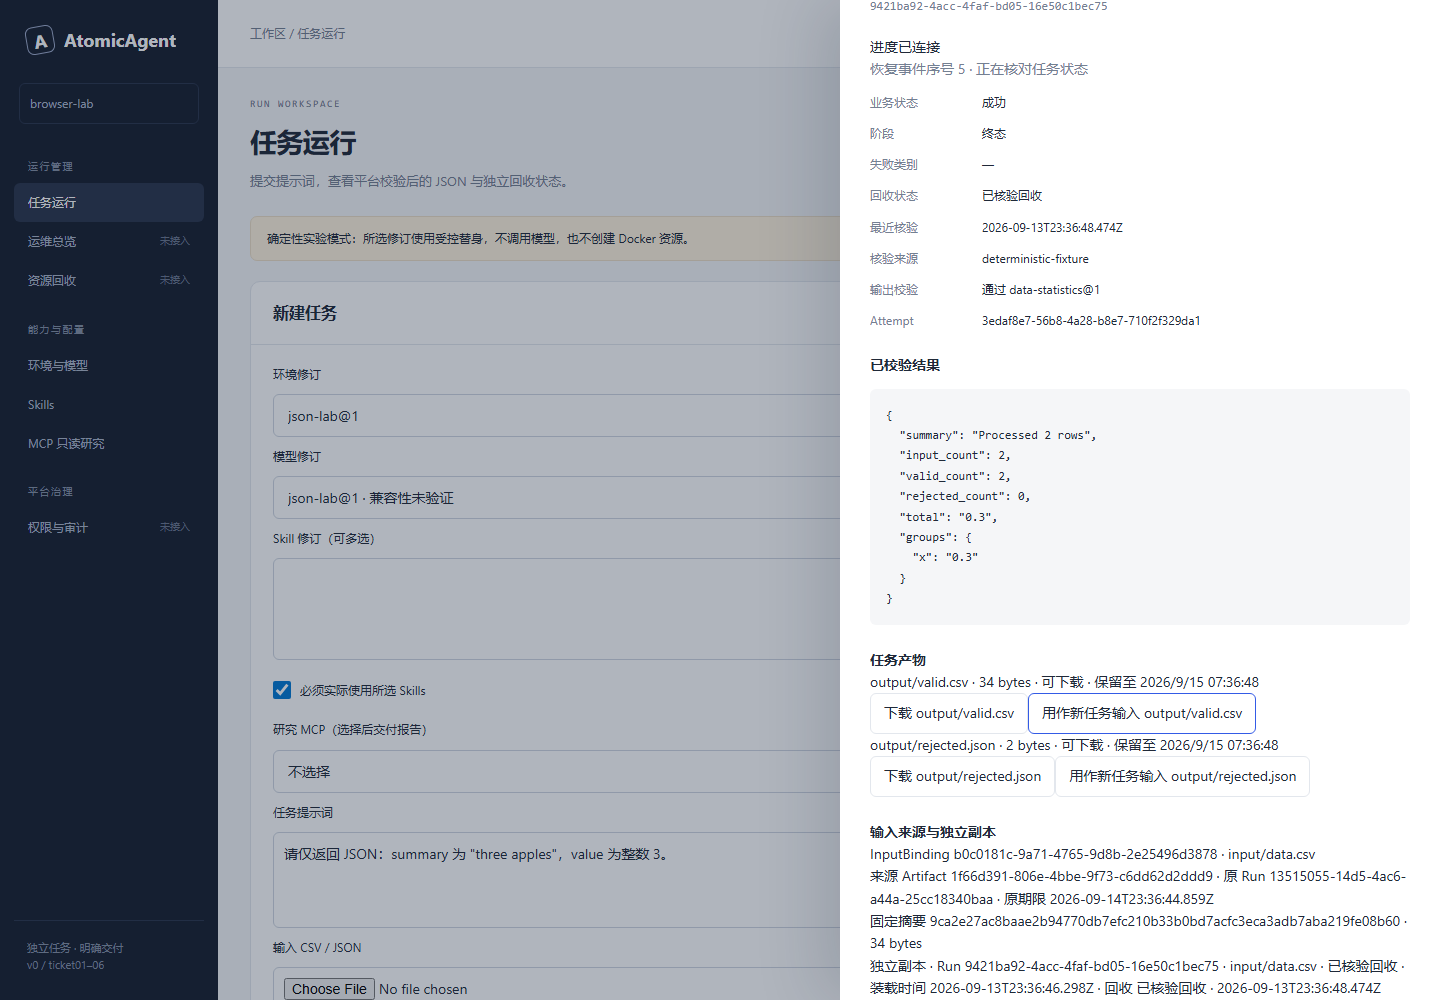
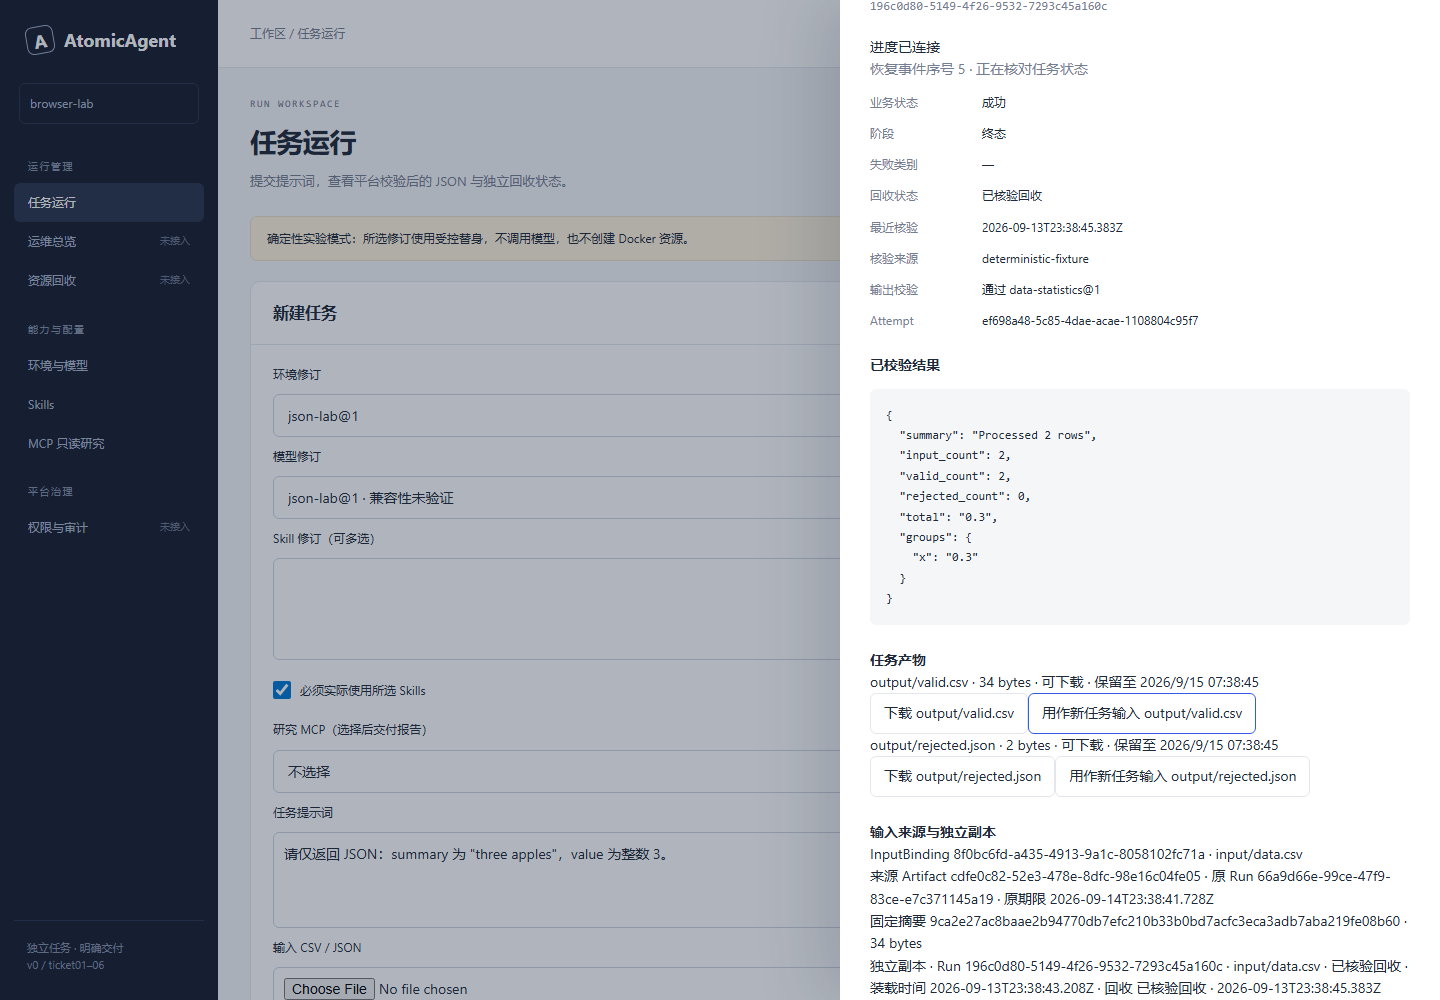
refactor(ticket08): name selected input across upload and reuse

diff --git a/web/app.js b/web/app.js
@@ -3,7 +3,7 @@ import { observeRun } from './events.js';
 const $ = id => document.getElementById(id);
 const statusText = { queued: '排队中', running: '运行中', succeeded: '成功', failed: '失败', timed_out: '已超期', pending: '待回收', complete: '已核验回收', unknown: '未知', preparing: '准备环境', executing: '执行中', terminal: '终态' };
 const errorText = { file_expired: '源文件已过期，请选择仍有效的产物。', file_incomplete: '源文件内容不完整，未接纳新任务。请选择其他产物。', input_contract_incompatible: '此产物不符合当前 CSV / 行数组 JSON 统计契约。', file_not_found: '源文件不存在或当前身份无权访问，请重新选择。', configuration_identity_changed: '登录身份已变化；请登录原身份找回配置操作。', configuration_conflict: '配置已被其他操作更新。请打开最新修订并重新预览。', configuration_preview_required: '请重新预览当前配置后再发布。', binding_not_allowed: '所选配置超过服务端登记的允许范围。', configuration_command_conflict: '此操作标识已绑定其他内容，请保留原操作材料核对。', authentication_required: '登录已失效，请重新登录。', forbidden: '当前身份无权执行此操作。', submission_identity_changed: '登录身份已变化，请重新登录原身份后找回提交。', config_unavailable: '登记配置不可用。', idempotency_conflict: '原提交标识已绑定其他内容；已保留恢复材料，请核对原提交。', service_unavailable: '服务暂不可用，请稍后点击刷新重试。', invalid_request: '请检查提示词与提交内容。' };
-let me = null, selected = null, loading = false, pending = null, uploaded = null;
+let me = null, selected = null, loading = false, pending = null, selectedInput = null;
 let observation = null;
 const configurations = configurationPanel({ api, identity: () => me });
 function stopObservation() { observation?.stop(); observation = null; }
@@ -55,7 +55,7 @@ async function submitPending() {
 function loggedOut() {
   configurations.logout();
   stopObservation();
-  me = null; selected = null; uploaded = null; pending = null; $('input-file').value = ''; $('input-status').textContent = '未绑定文件 · 提交提示词任务'; $('workspace').hidden = true; $('login').hidden = false;
+  me = null; selected = null; selectedInput = null; pending = null; $('input-file').value = ''; $('input-status').textContent = '未绑定文件 · 提交提示词任务'; $('workspace').hidden = true; $('login').hidden = false;
   $('logout').hidden = true; $('refresh').hidden = true; $('identity').textContent = '未登录'; $('nav-workspace').textContent = '尚未登录';
   $('runs').replaceChildren(); $('result').textContent = ''; $('manifest').textContent = ''; $('skill-evidence').replaceChildren(); $('mcp-evidence').textContent = ''; $('input-bindings').replaceChildren(); $('artifacts').replaceChildren(); $('detail').close();
   renderPending();
@@ -112,7 +112,7 @@ async function renderDetail(id, open = false) {
           if (me !== identity) return;
           if (source.availability !== 'available') throw new Error('源产物已失效，请刷新后重新选择。');
           const clearedMcp = !!$('mcp-revision').value; $('mcp-revision').value = '';
-          uploaded = source; $('input-file').value = '';
+          selectedInput = source; $('input-file').value = '';
           $('input-status').textContent = `显式引用 Artifact ${source.artifact_id} · 原 Run ${id} · 原期限 ${source.expires_at} · 提交时将校验内容并创建独立副本${clearedMcp ? ' · 已取消研究 MCP 选择，切回文件任务' : ''}`;
           $('prompt').value = '仅处理本次显式输入的数据，保序生成有效 CSV、拒绝 JSON 和十进制统计。';
           $('detail').close(); $('prompt').focus(); $('error').hidden = true;
@@ -175,11 +175,11 @@ $('submit-form').addEventListener('submit', async event => {
   try {
     if (pending) { await submitPending(); return; }
     if (!$('prompt').value.trim()) throw new Error('请填写非空任务提示词。');
-    if ($('input-file').files.length && !uploaded) throw new Error('请先上传并校验输入文件。');
-    if (uploaded && configurations.selection().mcp?.length) throw new Error('文件输入不能用于研究报告任务，请取消研究 MCP 选择后提交。');
-    if (!uploaded && configurations.selection().skills?.length) throw new Error('所选 Skill 用于文件处理，请先上传 CSV 或 JSON 输入。');
-    const request = { prompt: $('prompt').value, ...configurations.selection(), output_contract: configurations.selection().mcp?.length ? 'research-report@1' : uploaded ? 'data-statistics@1' : me.output_contract,
-      ...(uploaded ? { inputs: [{ ...(uploaded.artifact_id ? { artifact_id: uploaded.artifact_id } : { file_id: uploaded.file_id }), path: `input/data.${uploaded.format}` }] } : {}) };
+    if ($('input-file').files.length && !selectedInput) throw new Error('请先上传并校验输入文件。');
+    if (selectedInput && configurations.selection().mcp?.length) throw new Error('文件输入不能用于研究报告任务，请取消研究 MCP 选择后提交。');
+    if (!selectedInput && configurations.selection().skills?.length) throw new Error('所选 Skill 用于文件处理，请先上传 CSV 或 JSON 输入。');
+    const request = { prompt: $('prompt').value, ...configurations.selection(), output_contract: configurations.selection().mcp?.length ? 'research-report@1' : selectedInput ? 'data-statistics@1' : me.output_contract,
+      ...(selectedInput ? { inputs: [{ ...(selectedInput.artifact_id ? { artifact_id: selectedInput.artifact_id } : { file_id: selectedInput.file_id }), path: `input/data.${selectedInput.format}` }] } : {}) };
     const submission = { key: crypto.randomUUID(), body: JSON.stringify(request) };
     sessionStorage.setItem(pendingStorageKey(me), JSON.stringify(submission));
     pending = submission; renderPending(); await submitPending();
@@ -187,8 +187,8 @@ $('submit-form').addEventListener('submit', async event => {
   finally { renderPending(); }
 });
 $('recover-submission').addEventListener('click', submitPending);
-$('input-file').addEventListener('change', () => { uploaded = null; $('input-status').textContent = '文件待上传校验'; });
-$('clear-input').addEventListener('click', () => { uploaded = null; $('input-file').value = ''; $('input-status').textContent = '未绑定文件 · 提交提示词任务'; });
+$('input-file').addEventListener('change', () => { selectedInput = null; $('input-status').textContent = '文件待上传校验'; });
+$('clear-input').addEventListener('click', () => { selectedInput = null; $('input-file').value = ''; $('input-status').textContent = '未绑定文件 · 提交提示词任务'; });
 $('upload-input').addEventListener('click', async () => {
   const file = $('input-file').files[0]; $('upload-input').disabled = true;
   try {
@@ -197,7 +197,7 @@ $('upload-input').addEventListener('click', async () => {
     const identity = me;
     const object = await api('/v1/files', { method: 'POST', headers: { 'X-File-Format': file.name.split('.').pop().toLowerCase(), 'Content-Type': 'application/octet-stream' }, body: file });
     if (me !== identity || $('input-file').files[0] !== file) return;
-    uploaded = object;
+    selectedInput = object;
     $('input-status').textContent = `已校验 · ${object.size_bytes} bytes · ${object.file_id} · 保留至 ${new Date(object.expires_at).toLocaleString('zh-CN')}`;
     $('prompt').value = '按十进制处理输入数据。负数和零有效，非数字行进入拒绝清单；保持输入顺序，输出有效 CSV、拒绝 JSON 和统计。';
     $('error').hidden = true;
